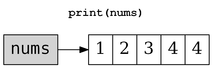
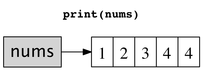
Updated figures, from the Mac

Changed region(s): [[0.0, 0.5, 1.0, 0.9706], [0.2956, 0.1176, 0.6798, 0.2941]]

diff --git a/pages/text/graphy.py b/pages/text/graphy.py
@@ -14,7 +14,7 @@ class Graphviz(object):
     SNIPS = {
         'INTATTRS':     'shape=circle',
         'NAMEATTRS':    'shape=box, style=filled, fillcolor=lightgray, fontname=monospace',
-        'PROLOG':       'digraph d { graph [rankdir=LR, dpi=300]; node [fontsize=20, fontname=serif];',
+        'PROLOG':       'digraph d { graph [rankdir=LR, dpi=300]; node [fontsize=20];',
         'EPILOG':       '}',
     }
 
